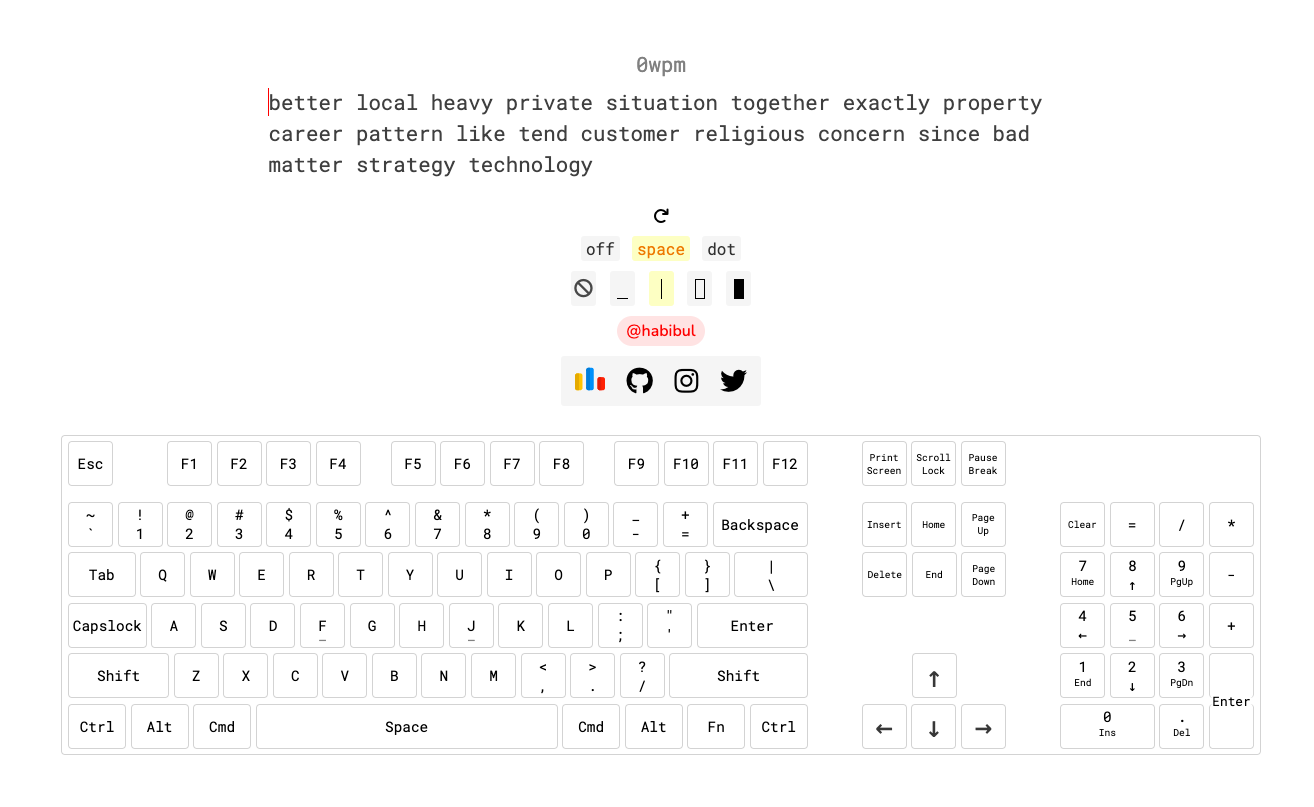
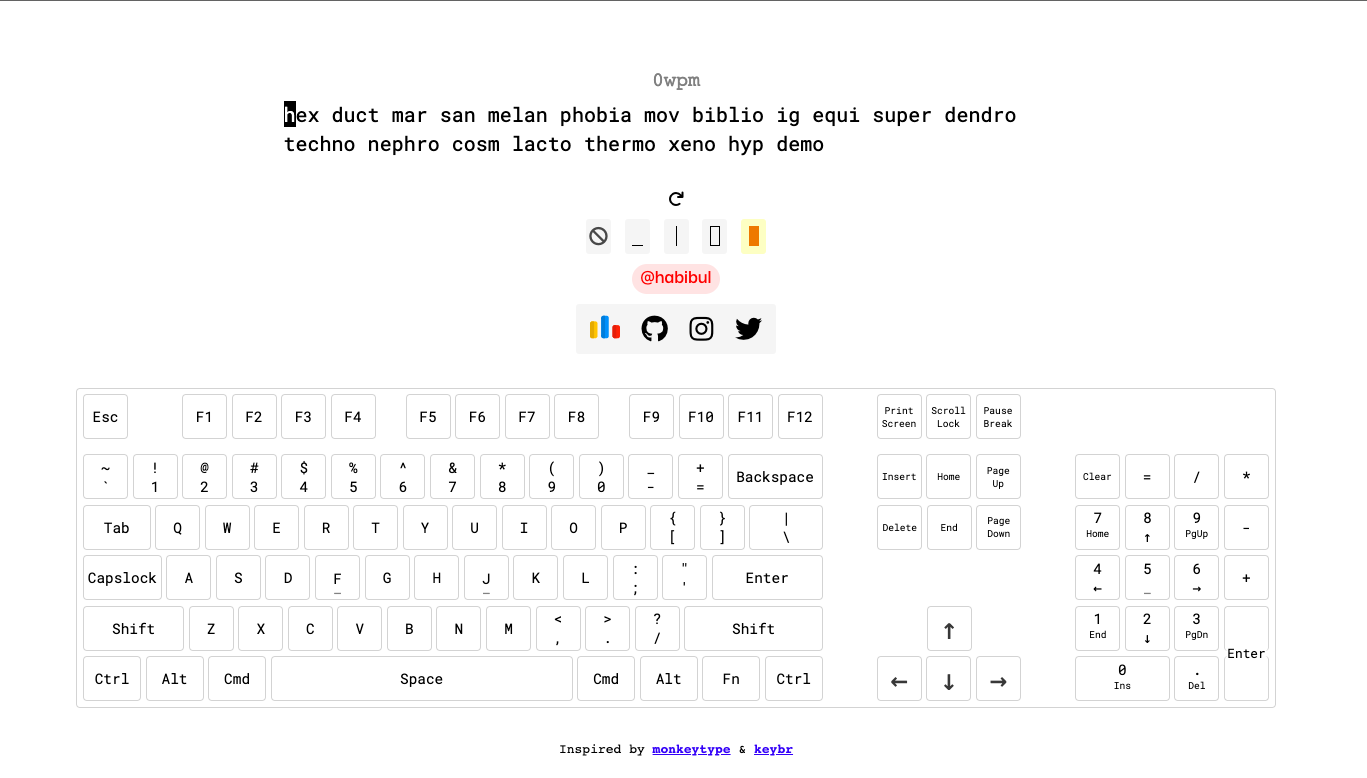
minor changes

diff --git a/javascript/static/rootword.js b/javascript/static/rootword.js
@@ -9,6 +9,24 @@ export default [
 	"morph",
 	"photo",
 	"phos",
+	"myo",
+	"narr",
+	"nat",
+	"nav",
+	"necr",
+	"necro",
+	"neg",
+	"neo",
+	"nephr",
+	"nephro",
+	"neur",
+	"neuro",
+	"norm",
+	"non",
+	"not",
+	"noun",
+	"nunc",
+	"nov",
 	"phon",
 	"hydr",
 	"mono",
@@ -314,10 +332,207 @@ export default [
 	"milli",
 	"min",
 	"mini",
+	"miss",
+	"mit",
+	"mob",
+	"mon",
+	"mono",
+	"mot",
+	"mov",
+	"morph",
+	"morpho",
+	"mut",
+	"myo",
+	"narr",
+	"nat",
+	"nav",
+	"necr",
+	"necro",
+	"neg",
+	"neo",
+	"nephr",
+	"nephro",
+	"neur",
+	"neuro",
+	"norm",
+	"non",
+	"not",
+	"noun",
+	"nunc",
+	"nov",
+	"numer",
+	"ob",
+	"op",
+	"oct",
+	"octa",
+	"octo",
+	"ocu",
+	"omni",
+	"opt",
+	"ops",
+	"ortho",
+	"osteo",
+	"out",
+	"over",
+	"oxy",
+	"pale",
+	"paleo",
+	"para",
+	"pater",
+	"parti",
+	"path",
+	"ped",
+	"pedi",
+	"pede",
+	"pel",
+	"pent",
+	"penta",
+	"pept",
+	"peps",
+	"per",
+	"peri",
+	"phag",
+	"phage",
+	"phil",
+	"philo",
+	"phot",
+	"phys",
+	"phyt",
+	"phyto",
+	"phyte",
+	"pod",
+	"pode",
+	"poli",
+	"poly",
+	"pon",
+	"pop",
+	"pos",
+	"post",
+	"pre",
+	"pro",
+	"pseud",
+	"pseudo",
+	"psych",
+	"psycho",
+	"pugn",
+	"pugna",
+	"pung",
+	"pul",
+	"purg",
+	"put",
+	"put",
+	"pyr",
+	"pyro",
+	"quad",
+	"quadr",	
+	"quart",
+	"quin",
+	"quint",
+	"radic",
+	"radix",
+	"radio",
+	"ram",
+	"rami",
+	"re",
+	"reg",
+	"retro",
+	"rhin",
+	"rhino",
+	"rhod",
+	"rhodo",
+	"rid",
+	"rupt",
+	"san",
+	"sci",
+	"scler",
+	"sclero",
+	"scop",
+	"scope",
+	"scopy",
+	"script",
+	"se",
+	"self",
+	"semi",
+	"sept",
+	"septi",
+	"serv",
+	"sex",
+	"sol",
+	"somn",
+	"somni",
+	"son",
+	"soph",
+	"spec",
+	"spect",
+	"spic",
+	"sphere",
+	"spir",
+	"sta",
+	"stell",
+	"struct",
+	"sub",
+	"sum",
+	"super",
+	"sy",
+	"sym",
+	"syn",
+	"syl",
+	"sys",
+	"tact",
+	"tang",
+	"tax",
+	"taxo",
+	"techno",
+	"tel",
+	"tele",
+	"telo",
+	"temp",
+	"tempor",
+	"term",
+	"termina",
+	"terr",
+	"terra",
+	"terri",
+	"tetra",
+	"the",
+	"theo",
+	"therm",
+	"thermo",
+	"tort",
+	"tox",
+	"tract",
+	"trans",
+	"tri",
+	"ultra",
+	"un",
+	"uni",
+	"urb",
+	"vac",
+	"vent",
+	"ver",
+	"verb",
+	"vers",
+	"vert",
+	"vice",
+	"vid",
+	"vince",
+	"vic",
+	"vis",
+	"viv",
+	"vivi",
+	"vit",
+	"voc",
+	"voi",
+	"vol",
+	"voli",
+	"volu",
+	"vor",
+	"vour",
+	"xen",
+	"xeno",
+	"xer",
+	"xero",
+	"xel",
+	"zo",
+	"zoo",
 ]
-/**
- * first letter of first word uppercased
- * first letter of every word uppercased
- * first letter of random word uppercased
- * 
- */

diff --git a/javascript/utils/misc.js b/javascript/utils/misc.js
@@ -9,7 +9,6 @@ import * as ConfigHandler from "../handler/confighandler.js";
 import * as MiscElement from "../HTMLElement/MiscElement.js";
 import * as SettingElement from "../HTMLElement/SettingElement.js";
 import * as TestAreaElement from "../HTMLElement/TestAreaElement.js";
-import config from "../include/config.js";
 
 export function isspace(letter) {
   return letter?.textContent.charCodeAt(0) === 160;
@@ -49,8 +48,9 @@ export function showspeed(lettercount, time) {
 export function randomwords() {
   let words = new Array(Config.phrase.word.count);
   for (let i = 0; i < Config.phrase.word.count; ++i) {
-    words[i] = w1k[Math.floor(Math.random() * w1k.length)];
+    // words[i] = w1k[Math.floor(Math.random() * w1k.length)];
     // words[i] = w3k[Math.floor(Math.random() * w3k.length)];
+    words[i] = rootword[Math.floor(Math.random() * rootword.length)];
   }
   return words;
 }

diff --git a/css/caret.css b/css/caret.css
@@ -1,11 +1,11 @@
 :root {
   /* caret color */
-  --caret-color: black;
+  --caret-color: red;
   --caret-color-hidden: white;
   
   /* caret animation (blink duration, count, rhythm, delay) */
   --caret-animation-delay: 2s;
-  --caret-animation-duration: 1.15s;
+  --caret-animation-duration: 1.17s;
   --caret-animation-iteration-count: 10;
   --caret-animation-timing-function: ease-out;
 

diff --git a/javascript/main.js b/javascript/main.js
@@ -5,7 +5,7 @@ import * as SettingUI from "./ui/SettingUI.js";
 import * as SettingElement from "./HTMLElement/SettingElement.js";
 
 function main() {
-	// will be delegated some important tasks in future..
+	// will be delegated tasks later..
 }
 
 window.addEventListener('load', (evt) => {

diff --git a/README.md b/README.md
@@ -1,5 +1,5 @@
 # ttypist
 
 <br/>
-<img src="./static/images/ttypist.png">
+<img src="./assets/pictures/ttypist.png/">
 <br/>
